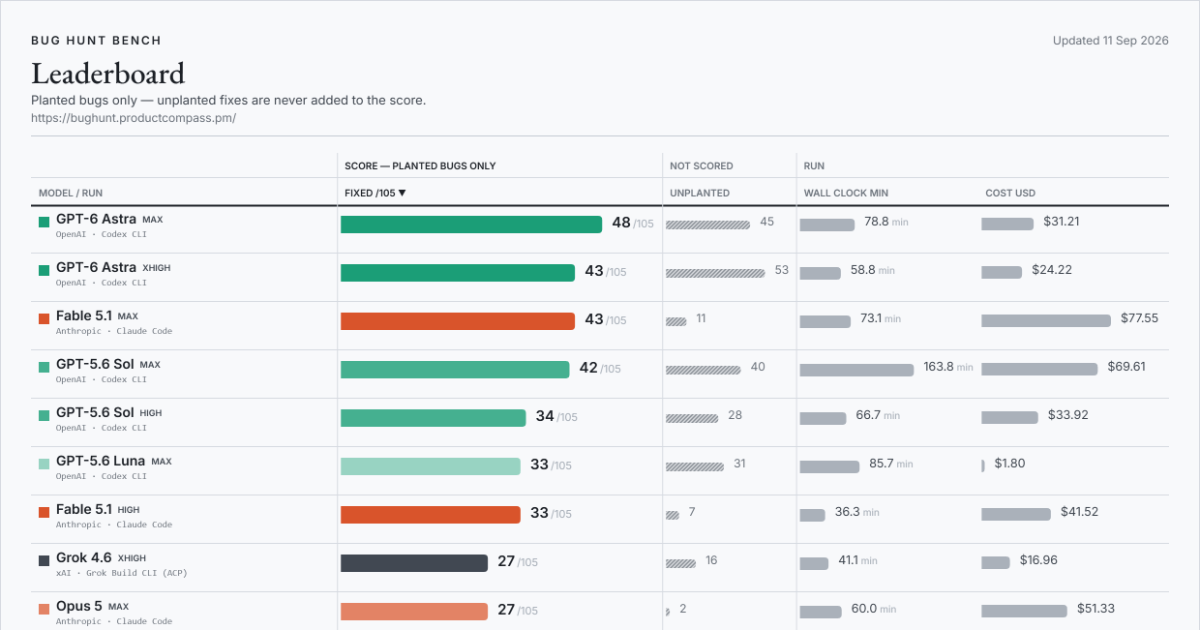
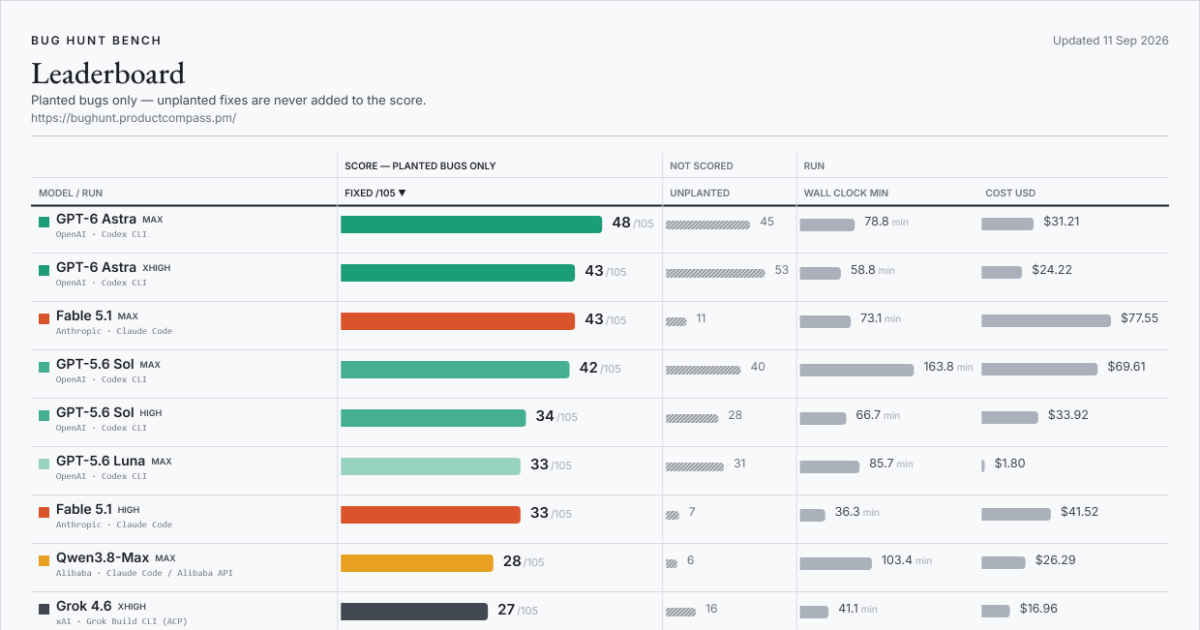
bug hunt bench: Qwen3.8-Max (max effort, Alibaba API) (28/105)

diff --git a/index.html b/index.html
@@ -22,14 +22,14 @@
 <meta property="og:title" content="Bug Hunt Bench — frontier coding models against real planted bugs">
 <meta property="og:description" content="A blind-graded benchmark of frontier coding models on real bugs planted in two production codebases. The score counts planted bugs only; extra fixes are tracked separately and never added.">
 <meta property="og:url" content="https://bughunt.productcompass.pm/">
-<meta property="og:image" content="https://bughunt.productcompass.pm/og-image.png?v=2026-09-11-01ea1131">
+<meta property="og:image" content="https://bughunt.productcompass.pm/og-image.png?v=2026-09-11-d53297c7">
 <meta property="og:image:width" content="1200">
 <meta property="og:image:height" content="630">
 <meta property="og:image:alt" content="Bug Hunt Bench leaderboard">
 <meta name="twitter:card" content="summary_large_image">
 <meta name="twitter:title" content="Bug Hunt Bench — frontier coding models against real planted bugs">
 <meta name="twitter:description" content="A blind-graded benchmark of frontier coding models on real bugs planted in two production codebases. The score counts planted bugs only.">
-<meta name="twitter:image" content="https://bughunt.productcompass.pm/og-image.png?v=2026-09-11-01ea1131">
+<meta name="twitter:image" content="https://bughunt.productcompass.pm/og-image.png?v=2026-09-11-d53297c7">
 <meta name="twitter:creator" content="@PawelHuryn">
 
 <link rel="icon" href="/assets/favicon.svg" type="image/svg+xml">

diff --git a/method.html b/method.html
@@ -20,14 +20,14 @@
 <meta property="og:title" content="Method, caveats and definitions — Bug Hunt Bench">
 <meta property="og:description" content="How Bug Hunt Bench is run and graded, what the board cannot tell you, and what every column on it means.">
 <meta property="og:url" content="https://bughunt.productcompass.pm/method">
-<meta property="og:image" content="https://bughunt.productcompass.pm/og-image.png?v=2026-09-11-01ea1131">
+<meta property="og:image" content="https://bughunt.productcompass.pm/og-image.png?v=2026-09-11-d53297c7">
 <meta property="og:image:width" content="1200">
 <meta property="og:image:height" content="630">
 <meta property="og:image:alt" content="Bug Hunt Bench leaderboard">
 <meta name="twitter:card" content="summary_large_image">
 <meta name="twitter:title" content="Method, caveats and definitions — Bug Hunt Bench">
 <meta name="twitter:description" content="How Bug Hunt Bench is run and graded, what the board cannot tell you, and what every column on it means.">
-<meta name="twitter:image" content="https://bughunt.productcompass.pm/og-image.png?v=2026-09-11-01ea1131">
+<meta name="twitter:image" content="https://bughunt.productcompass.pm/og-image.png?v=2026-09-11-d53297c7">
 <meta name="twitter:creator" content="@PawelHuryn">
 
 <link rel="icon" href="/assets/favicon.svg" type="image/svg+xml">

diff --git a/README.md b/README.md
@@ -9,11 +9,11 @@ If the numbers save you a benchmark run of your own, **star this repo** — that
 <!-- leaderboard:start -->
 ![Bug Hunt Bench leaderboard, the featured runs, updated Sep 11, 2026](assets/leaderboard.png?v=2026-09-11)
 
-**Updated Sep 11, 2026 · 65 scored runs · 24 models · 39 of 105 bugs have never been fixed by any model.**
+**Updated Sep 11, 2026 · 66 scored runs · 24 models · 39 of 105 bugs have never been fixed by any model.**
 
 **Current leader:** GPT-6 Astra at `max` effort — **48 / 105** (24/45 on repo 1, 24/60 on repo 2).
 
-**Best run per lab:** OpenAI: GPT-6 Astra (`max`) 48 · Anthropic: Fable 5.1 (`max`) 43 · xAI: Grok 4.6 (`xhigh`) 27 · Alibaba: Qwen3.8-Flash (`max`) 26 · DeepSeek: DeepSeek V4.1 Flash (`max`) 24 · Google: Gemini 3.7 Flash (`high`) 22 · Moonshot AI: Kimi K3 (`default`) 21 · Z.ai: GLM-5.3 (`max`) 19 · Tencent: Hy4 Preview (`high`) 18 · Meta: Muse Spark 1.2 (`xhigh`) 17
+**Best run per lab:** OpenAI: GPT-6 Astra (`max`) 48 · Anthropic: Fable 5.1 (`max`) 43 · Alibaba: Qwen3.8-Max (`max`) 28 · xAI: Grok 4.6 (`xhigh`) 27 · DeepSeek: DeepSeek V4.1 Flash (`max`) 24 · Google: Gemini 3.7 Flash (`high`) 22 · Moonshot AI: Kimi K3 (`default`) 21 · Z.ai: GLM-5.3 (`max`) 19 · Tencent: Hy4 Preview (`high`) 18 · Meta: Muse Spark 1.2 (`xhigh`) 17
 
 | # | Model | Harness | Effort | Fixed /105 | Repo 1 /45 | Repo 2 /60 | Extras | Wall | Cost | Date |
 |--:|---|---|---|--:|--:|--:|--:|--:|--:|---|
@@ -32,27 +32,27 @@ If the numbers save you a benchmark run of your own, **star this repo** — that
 | 13 | Fable 5.1 | Claude Code | low | **29** | 13 | 16 | 6 | 33 min | $27.27 | 2026-09-02 |
 | 14 | Fable 5.1 | Claude Code | xhigh | **29** | 13 | 16 | 4 | 60 min | $40.42 | 2026-09-10 |
 | 15 | Fable 5 | Claude Code | max | **29** | 12 | 17 | 5 | 57 min | $104.49 | 2026-08-01 |
-| 16 | GPT-6 Astra | Codex CLI | low | **27** | 18 | 9 | 25 | 32 min | $11.69 | 2026-09-05 |
-| 17 | Grok 4.6 | Grok Build CLI (ACP) | xhigh | **27** | 8 | 19 | 16 | 41 min | $16.96 floor | 2026-08-28 |
-| 18 | Opus 5 | Claude Code | max | **27** | 13 | 14 | 2 | 60 min | $51.33 | 2026-08-01 |
-| 19 | Qwen3.8-Flash | Claude Code / Alibaba API | max | **26** | 13 | 13 | 7 | 97 min | $1.81 | 2026-09-11 |
-| 20 | Opus 5 | Claude Code | xhigh | **26** | 14 | 12 | 3 | 50 min | $59.59 | 2026-08-28 |
-| 21 | DeepSeek V4.1 Flash | Claude Code / DeepSeek API | max | **24** | 14 | 10 | 7 | 43 min | $1.08 bill | 2026-09-10 |
-| 22 | Opus 5 | Claude Code | medium | **24** | 11 | 13 | 4 | 30 min | $34.77 | 2026-08-27 |
-| 23 | Fable 5 | Claude Code | high | **24** | 9 | 15 | 3 | 31 min | $68.07 | 2026-07-26 |
-| 24 | Qwen3.8-Flash | Claude Code / Alibaba API | low | **23** | 11 | 12 | 7 | 98 min | $1.37 | 2026-09-11 |
-| 25 | GPT-5.6 Luna | Codex CLI | xhigh | **23** | 10 | 13 | 53 | 136 min | $2.50 | 2026-08-28 |
-| 26 | Grok 4.6 | Grok Build CLI (ACP) | high | **23** | 7 | 16 | 16 | 33 min | $15.73 floor | 2026-08-28 |
-| 27 | Grok 4.6 | Grok Build CLI (ACP) | medium | **22** | 9 | 13 | 11 | 26 min | $5.80 floor | 2026-08-28 |
-| 28 | Gemini 3.7 Flash | Gemini CLI (retired) + model-pinning gateway | high | **22** | 8 | 14 | 4 | 97 min | $8.43 | 2026-08-24 |
-| 29 | Fable 5.1 | Claude Code | medium | **21** | 8 | 13 | 3 | 23 min | $17.46 | 2026-09-10 |
-| 30 | Kimi K3 | Claude Code / OpenRouter | default | **21** | 4 | 17 | 6 | 108 min | $25.27 | 2026-07-26 |
-| 31 | Opus 5 | Claude Code | high | **21** | 11 | 10 | 6 | 37 min | $38.77 | 2026-07-26 |
-| 32 | GPT-5.6 Terra | Codex CLI | xhigh | **20** | 9 | 11 | 29 | 57 min | $8.98 | 2026-08-28 |
-| 33 | Gemini 3.8 Flash | Antigravity CLI | high | **20** | 7 | 13 | 6 | 30 min | $9.78 | 2026-09-02 |
-| 34 | DeepSeek V4.1 Flash | Claude Code / DeepSeek API | high | **19** | 9 | 10 | 4 | 26 min | $0.31 bill | 2026-09-10 |
-| 35 | GLM-5.3 | Claude Code / Z.ai API | max | **19** | 9 | 10 | 2 | 40 min | $15.93 | 2026-09-10 |
-| 36 | Qwen3.8-Max | Claude Code / OpenRouter | xhigh | **19** | 5 | 14 | 6 | 148 min | $33.30 | 2026-08-03 |
+| 16 | Qwen3.8-Max | Claude Code / Alibaba API | max | **28** | 13 | 15 | 6 | 103 min | $26.29 | 2026-09-11 |
+| 17 | GPT-6 Astra | Codex CLI | low | **27** | 18 | 9 | 25 | 32 min | $11.69 | 2026-09-05 |
+| 18 | Grok 4.6 | Grok Build CLI (ACP) | xhigh | **27** | 8 | 19 | 16 | 41 min | $16.96 floor | 2026-08-28 |
+| 19 | Opus 5 | Claude Code | max | **27** | 13 | 14 | 2 | 60 min | $51.33 | 2026-08-01 |
+| 20 | Qwen3.8-Flash | Claude Code / Alibaba API | max | **26** | 13 | 13 | 7 | 97 min | $1.81 | 2026-09-11 |
+| 21 | Opus 5 | Claude Code | xhigh | **26** | 14 | 12 | 3 | 50 min | $59.59 | 2026-08-28 |
+| 22 | DeepSeek V4.1 Flash | Claude Code / DeepSeek API | max | **24** | 14 | 10 | 7 | 43 min | $1.08 bill | 2026-09-10 |
+| 23 | Opus 5 | Claude Code | medium | **24** | 11 | 13 | 4 | 30 min | $34.77 | 2026-08-27 |
+| 24 | Fable 5 | Claude Code | high | **24** | 9 | 15 | 3 | 31 min | $68.07 | 2026-07-26 |
+| 25 | Qwen3.8-Flash | Claude Code / Alibaba API | low | **23** | 11 | 12 | 7 | 98 min | $1.37 | 2026-09-11 |
+| 26 | GPT-5.6 Luna | Codex CLI | xhigh | **23** | 10 | 13 | 53 | 136 min | $2.50 | 2026-08-28 |
+| 27 | Grok 4.6 | Grok Build CLI (ACP) | high | **23** | 7 | 16 | 16 | 33 min | $15.73 floor | 2026-08-28 |
+| 28 | Grok 4.6 | Grok Build CLI (ACP) | medium | **22** | 9 | 13 | 11 | 26 min | $5.80 floor | 2026-08-28 |
+| 29 | Gemini 3.7 Flash | Gemini CLI (retired) + model-pinning gateway | high | **22** | 8 | 14 | 4 | 97 min | $8.43 | 2026-08-24 |
+| 30 | Fable 5.1 | Claude Code | medium | **21** | 8 | 13 | 3 | 23 min | $17.46 | 2026-09-10 |
+| 31 | Kimi K3 | Claude Code / OpenRouter | default | **21** | 4 | 17 | 6 | 108 min | $25.27 | 2026-07-26 |
+| 32 | Opus 5 | Claude Code | high | **21** | 11 | 10 | 6 | 37 min | $38.77 | 2026-07-26 |
+| 33 | GPT-5.6 Terra | Codex CLI | xhigh | **20** | 9 | 11 | 29 | 57 min | $8.98 | 2026-08-28 |
+| 34 | Gemini 3.8 Flash | Antigravity CLI | high | **20** | 7 | 13 | 6 | 30 min | $9.78 | 2026-09-02 |
+| 35 | DeepSeek V4.1 Flash | Claude Code / DeepSeek API | high | **19** | 9 | 10 | 4 | 26 min | $0.31 bill | 2026-09-10 |
+| 36 | GLM-5.3 | Claude Code / Z.ai API | max | **19** | 9 | 10 | 2 | 40 min | $15.93 | 2026-09-10 |
 | 37 | Hy4 Preview | Claude Code / OpenRouter | high | **18** | 9 | 9 | 2 | 68 min | $3.13 bill | 2026-08-28 |
 | 38 | GPT-5.6 Terra | Codex CLI | high | **18** | 7 | 11 | 17 | 28 min | $5.89 | 2026-08-27 |
 | 39 | Grok 4.5 | Grok Build CLI (ACP) | high | **17** | 5 | 12 | 10 | 28 min | $8.50 floor | 2026-08-06 |
@@ -74,7 +74,7 @@ If the numbers save you a benchmark run of your own, **star this repo** — that
 | 55 | GPT-5.6 Luna | Codex CLI | low | **4** | 0 | 4 | 1 | 6 min | $0.10 | 2026-08-27 |
 
 Extras are real, unplanted defects a model fixed on the way; they are counted and never added to the score. Costs are token estimates at published list rates unless tagged **bill** (an actual invoice or credits delta) or **floor** (a reconstructed lower bound). `default` effort means the serving path had no working effort dial; *ran lower* marks a run whose CLI quietly replaced the requested tier. Wall clock is repo 1 plus repo 2 agent time, dependency install excluded.
-10 superseded re-runs stay in the CSVs and on the [live board](https://bughunt.productcompass.pm/?preset=all) but are left off this table.
+11 superseded re-runs stay in the CSVs and on the [live board](https://bughunt.productcompass.pm/?preset=all) but are left off this table.
 <!-- leaderboard:end -->
 
 ## What Bug Hunt Bench is

diff --git a/results/waves.md b/results/waves.md
@@ -1059,3 +1059,45 @@ whose scores are untouched — 19/105 then, 19/105 now.
 The general lesson is the one this board keeps relearning: **a benchmark row records a serving path, not
 a model.** Two of these three errors were invisible until a second row ran the same vendor a different
 way, and none of them would have been caught by re-reading the first row more carefully.
+
+### So Qwen3.8-Max was re-run first-party — and the path was worth nine points
+
+The corrections above fixed the labels. They could not fix the cost, because the problem was not
+arithmetic. So the model was re-run on the same endpoint the Flash rows ship on. Same model, same
+harness, same two repos, same laptop, one hop removed:
+
+| Qwen3.8-Max | Score /105 | Repo 1 /45 | Repo 2 /60 | Wall | Cost (list) | $/point |
+|---|--:|--:|--:|--:|--:|--:|
+| via proxy → OpenRouter (Aug 3) | 19 | 5 | 14 | 148.1 min | $33.30 | $1.75 |
+| **Alibaba's own endpoint (Sep 11)** | **28** | **13** | **15** | **103.4 min** | **$26.29** | **$0.94** |
+
+**Nine points more, for a fifth less money and a third less time.** Almost all of the gain is in repo 1
+(5/45 → 13/45), which is also the leg the old path handled worst.
+
+The mechanism is legible in the token columns, and it is not subtle:
+
+| | via OpenRouter | Alibaba direct |
+|---|--:|--:|
+| uncached input tokens | 8,282,777 | **1,716** |
+| uncached share of prompt | 12.94% | **0.0019%** |
+| cache reads | 54,863,213 | 90,944,691 |
+| output tokens | 136,426 | **168,395** |
+
+Caching that keeps working means the model keeps its context instead of rebuilding it. Output went **up
+23%** while wall time went **down 30%** — it spent its time thinking rather than re-reading, and the
+prompt tokens it did re-send fell by a factor of ~5,000.
+
+One caution against over-reading it: scores move between runs on this board, and a single pair cannot
+cleanly separate a path effect from ordinary variance — nine points is large, but it is n=1 against n=1.
+What the pair establishes *beyond* variance is the cost and token behaviour, where a ~5,000× gap is not
+a coin flip. The Aug 3 row is marked superseded rather than deleted; it remains the receipt for what an
+aggregator hop costs.
+
+The effort tier on the new row is `verified_ceiling`, and for once on a Qwen row that is fully earned:
+the endpoint 400-rejects an invented tier and names its accept-list, and a probe on this exact path
+separates the dial's bottom from its top (low 3,835–5,161 output tokens against high 9,946–14,061, no
+overlap). It also **saturates exactly like Flash** — high, xhigh and max are mutually indistinguishable
+with means that fall as the nominal tier rises. Two different models, one vendor, the same two-rung
+shape, which points at Alibaba's serving rather than at either model. And the accept-list here
+(low/medium/high/xhigh/max) **contradicts the QwenCloud doc** the superseded row's tier claim rested on
+(low/medium/xhigh, with high→xhigh) — one more reason that claim was never safe.
